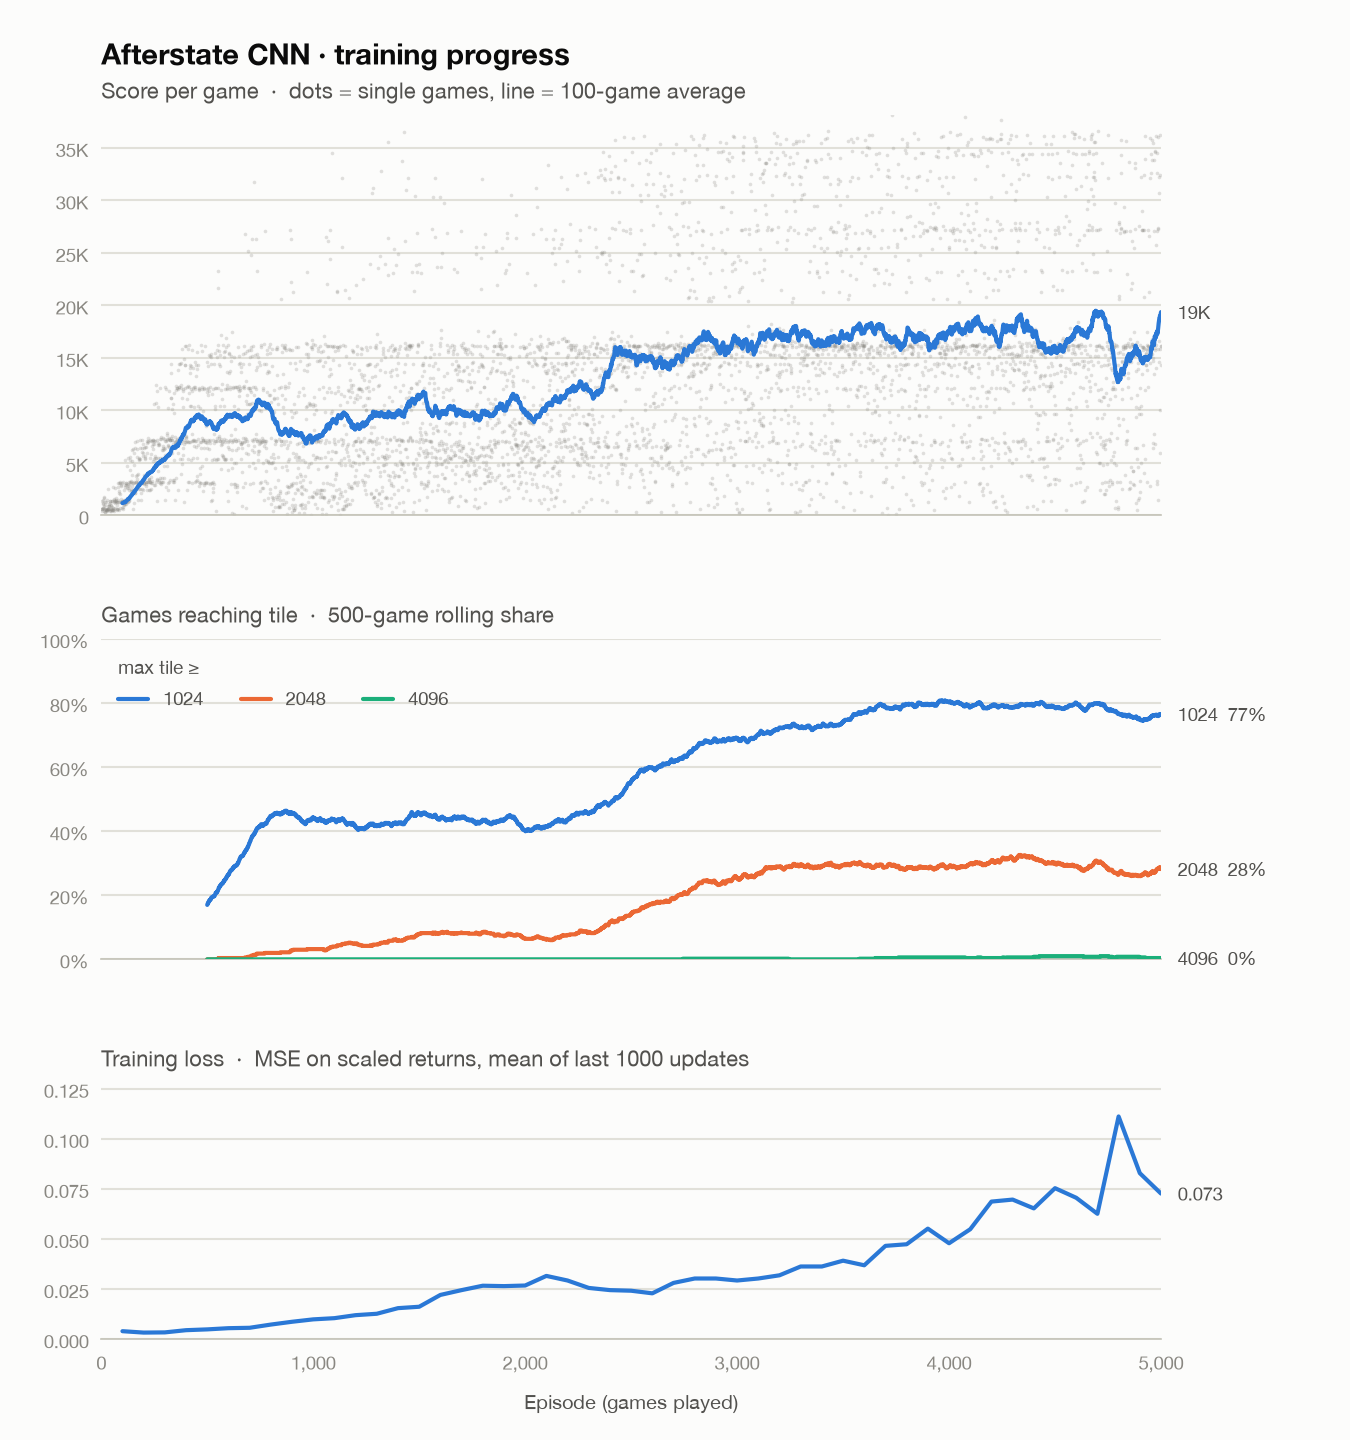
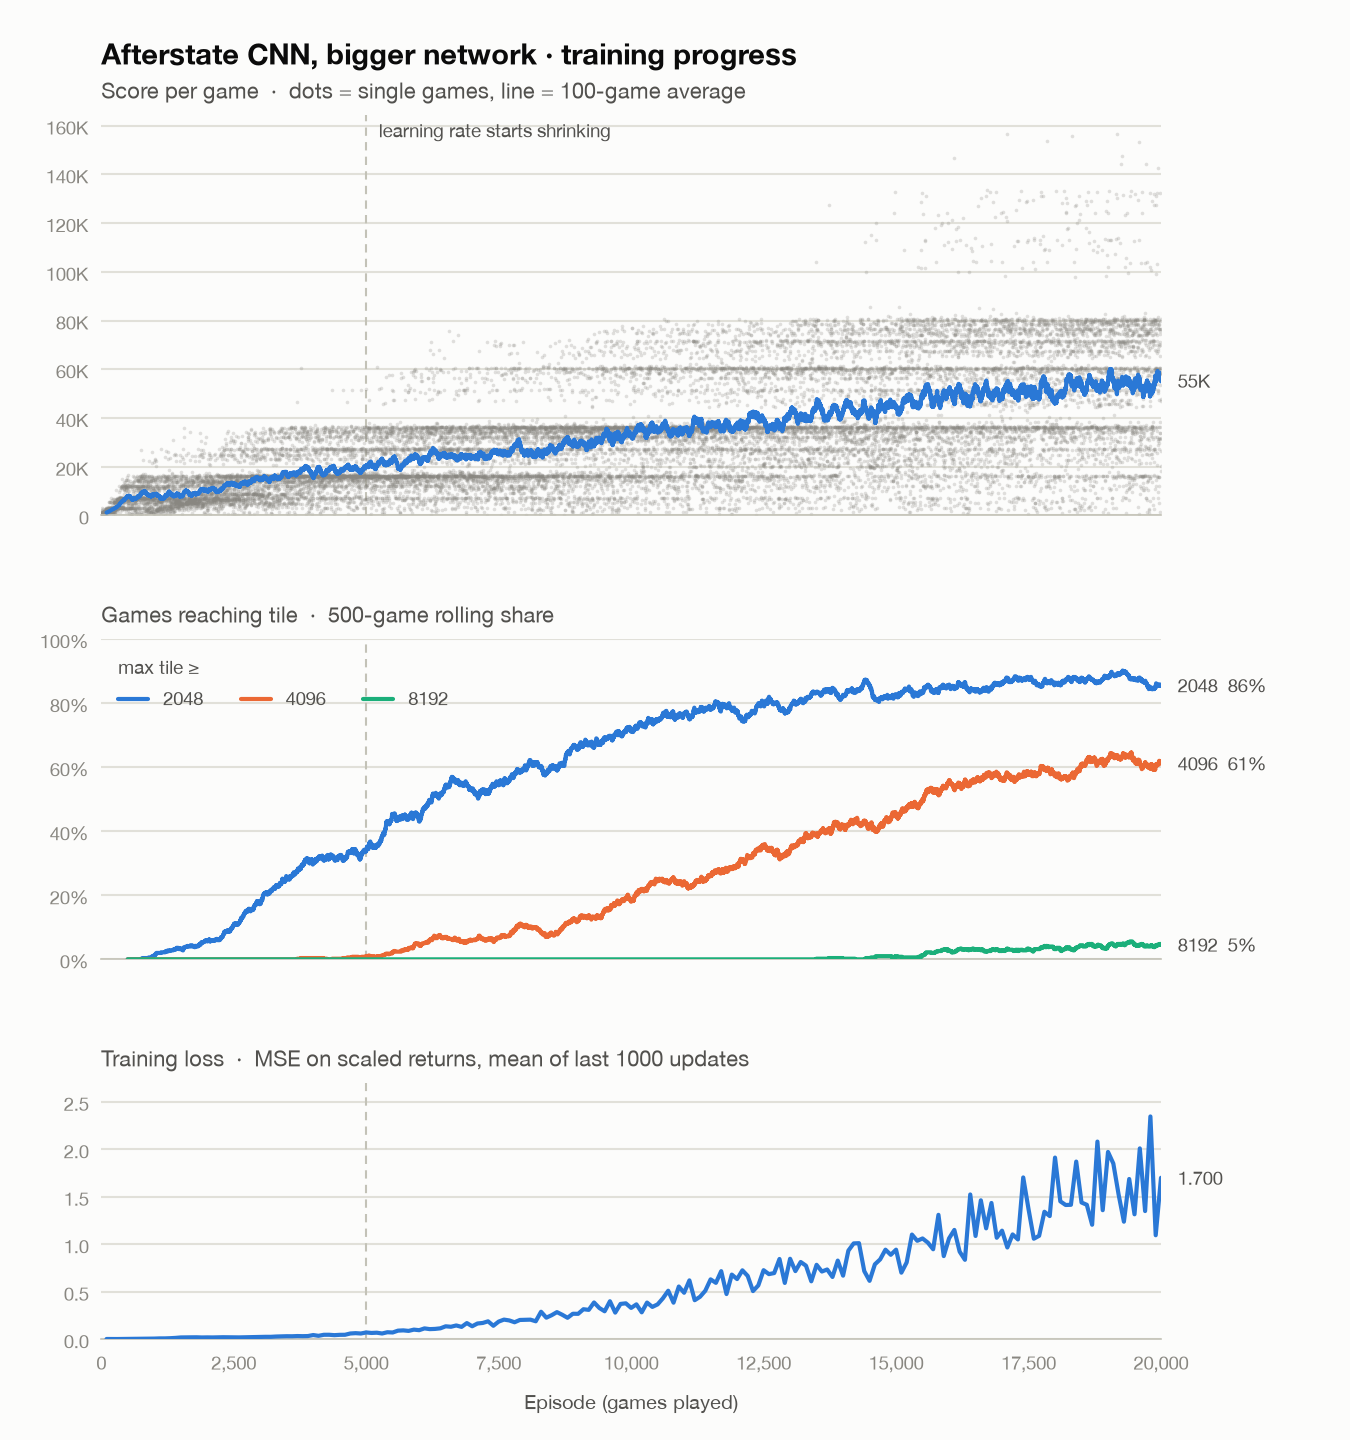
Chart the bigger network's 20K training run with 2048, 4096 and 8192 rates

diff --git a/CNN/plot_training.py b/CNN/plot_training.py
@@ -1,11 +1,14 @@
 """
 Plot afterstate-agent training progress for the README: score, tile-reach rates, and loss.
 
-Reads the per-episode metrics CSV and the training stdout log (loss is only printed there,
-every --log-interval episodes), and writes a light and a dark PNG.
+Reads the per-episode metrics CSVs and the training stdout logs (loss is only printed there,
+every --log-interval episodes), and writes a light and a dark PNG. A run continued from another
+run's checkpoint is given as several files in order; for an episode in more than one file, the
+later file wins (the bigger network's 5K→20K run continued from episode 5,000 of its first run).
 
-  python -m CNN.plot_training --train-csv CNN/logs/cnn_after_pilot_train.csv \
-      --log CNN/logs/cnn_after_pilot.out --out-dir docs/images
+  python -m CNN.plot_training \
+      --train-csv CNN/logs/cnn_after_v2_train.csv CNN/logs/cnn_after_v2lr20_train.csv \
+      --log CNN/logs/cnn_after_v2.out CNN/logs/cnn_after_v2lr20.out --out-dir docs/images
 """
 
 import argparse
@@ -26,26 +29,30 @@ THEMES = {
     "dark": dict(surface="#1a1a19", ink="#f0efec", ink2="#c3c2b7", muted="#898781",
                  grid="#2c2c2a", axis="#383835", series=["#3987e5", "#d95926", "#199e70"]),
 }
-RATE_TILES = (1024, 2048, 4096)
+RATE_TILES = (2048, 4096, 8192)
 LOSS_RE = re.compile(r"Episode\s+(\d+):.*loss=([0-9.]+)")
 
 
-def load_train(path: str):
-    with open(path) as f:
-        rows = list(csv.DictReader(f))
-    episodes = np.array([int(r["episode"]) for r in rows])
-    scores = np.array([int(r["score"]) for r in rows])
-    tiles = np.array([int(r["max_tile"]) for r in rows])
+def load_train(paths):
+    games = {}  # episode -> (score, max tile); later files win
+    for path in paths:
+        with open(path) as f:
+            for r in csv.DictReader(f):
+                games[int(r["episode"])] = (int(r["score"]), int(r["max_tile"]))
+    episodes = np.array(sorted(games))
+    scores = np.array([games[e][0] for e in episodes])
+    tiles = np.array([games[e][1] for e in episodes])
     return episodes, scores, tiles
 
 
-def load_loss(path: str):
-    points = {}
-    with open(path) as f:
-        for line in f:
-            m = LOSS_RE.search(line)
-            if m and float(m.group(2)) > 0:  # loss=0 before the replay warmup ends
-                points[int(m.group(1))] = float(m.group(2))
+def load_loss(paths):
+    points = {}  # episode -> loss; later files win
+    for path in paths:
+        with open(path) as f:
+            for line in f:
+                m = LOSS_RE.search(line)
+                if m and float(m.group(2)) > 0:  # loss=0 before the replay warmup ends
+                    points[int(m.group(1))] = float(m.group(2))
     eps = np.array(sorted(points))
     return eps, np.array([points[e] for e in eps])
 
@@ -75,7 +82,16 @@ def end_label(ax, x, y, text, t) -> None:
                 color=t["ink2"], fontsize=9, annotation_clip=False)
 
 
-def plot(theme: str, train, loss, out: Path, score_window: int, rate_window: int) -> None:
+def mark_episode(axes, x, label: str, t) -> None:
+    """Dashed reference line on every panel, labeled once on the top panel."""
+    for ax in axes:
+        ax.axvline(x, color=t["axis"], linewidth=1, linestyle=(0, (4, 3)), zorder=1)
+    axes[0].annotate(label, (x, 1), xycoords=("data", "axes fraction"), xytext=(6, -2), textcoords="offset points",
+                     va="top", color=t["ink2"], fontsize=9)
+
+
+def plot(theme: str, train, loss, out: Path, score_window: int, rate_window: int, lr_decay_start: int,
+         title: str) -> None:
     t = THEMES[theme]
     episodes, scores, tiles = train
     loss_eps, loss_vals = loss
@@ -93,7 +109,7 @@ def plot(theme: str, train, loss, out: Path, score_window: int, rate_window: int
     ax_s.plot(episodes[score_window - 1:], sm, color=t["series"][0], linewidth=2, solid_capstyle="round", zorder=3)
     end_label(ax_s, x_max, sm[-1], compact(sm[-1]), t)
     ax_s.yaxis.set_major_formatter(FuncFormatter(compact))
-    ax_s.set_ylim(0, np.percentile(scores, 99.5) * 1.05)
+    ax_s.set_ylim(0, scores.max() * 1.05)  # keep the rare top games (8192 tiles) in view
 
     # 2) share of games reaching each tile, trailing window
     style_axis(ax_r, t, f"Games reaching tile  ·  {rate_window}-game rolling share")
@@ -117,9 +133,10 @@ def plot(theme: str, train, loss, out: Path, score_window: int, rate_window: int
     ax_l.set_xlabel("Episode (games played)", color=t["ink2"], fontsize=9.5, labelpad=8)
     ax_l.xaxis.set_major_formatter(FuncFormatter(lambda v, _p: f"{v:,.0f}"))
     ax_l.set_xlim(0, x_max)
+    if lr_decay_start > 0:
+        mark_episode((ax_s, ax_r, ax_l), lr_decay_start, "learning rate starts shrinking", t)
 
-    fig.suptitle("Afterstate CNN · training progress", x=0.075, y=0.975, ha="left",
-                 color=t["ink"], fontsize=14, fontweight="semibold")
+    fig.suptitle(title, x=0.075, y=0.975, ha="left", color=t["ink"], fontsize=14, fontweight="semibold")
     fig.subplots_adjust(left=0.075, right=0.86, top=0.92, bottom=0.07)
     fig.savefig(out, dpi=150, facecolor=t["surface"])
     plt.close(fig)
@@ -128,18 +145,22 @@ def plot(theme: str, train, loss, out: Path, score_window: int, rate_window: int
 
 def main() -> None:
     p = argparse.ArgumentParser(description=__doc__, formatter_class=argparse.RawDescriptionHelpFormatter)
-    p.add_argument("--train-csv", default="CNN/logs/cnn_after_pilot_train.csv")
-    p.add_argument("--log", default="CNN/logs/cnn_after_pilot.out")
+    p.add_argument("--train-csv", nargs="+",
+                   default=["CNN/logs/cnn_after_v2_train.csv", "CNN/logs/cnn_after_v2lr20_train.csv"])
+    p.add_argument("--log", nargs="+", default=["CNN/logs/cnn_after_v2.out", "CNN/logs/cnn_after_v2lr20.out"])
     p.add_argument("--out-dir", default="docs/images")
     p.add_argument("--score-window", type=int, default=100)
     p.add_argument("--rate-window", type=int, default=500)
+    p.add_argument("--lr-decay-start", type=int, default=5000, help="Mark this episode on every panel (0 = no mark)")
+    p.add_argument("--title", default="Afterstate CNN, bigger network · training progress")
     args = p.parse_args()
 
     out_dir = Path(args.out_dir)
     out_dir.mkdir(parents=True, exist_ok=True)
     train, loss = load_train(args.train_csv), load_loss(args.log)
     for theme in THEMES:
-        plot(theme, train, loss, out_dir / f"training_progress_{theme}.png", args.score_window, args.rate_window)
+        plot(theme, train, loss, out_dir / f"training_progress_{theme}.png", args.score_window, args.rate_window,
+             args.lr_decay_start, args.title)
 
 
 if __name__ == "__main__":
